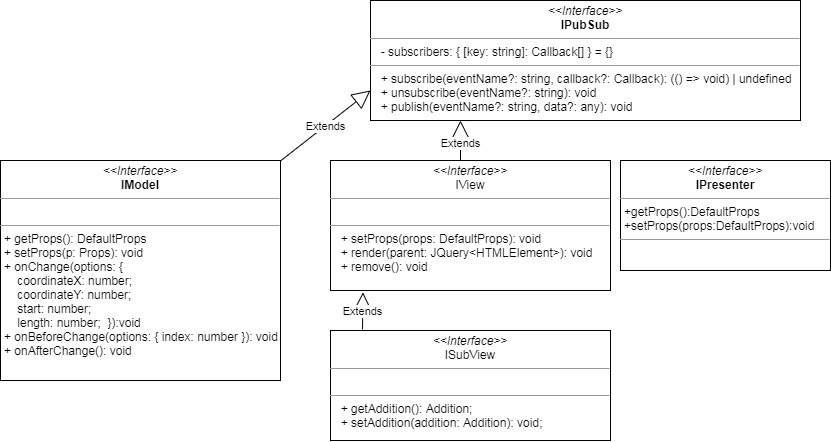
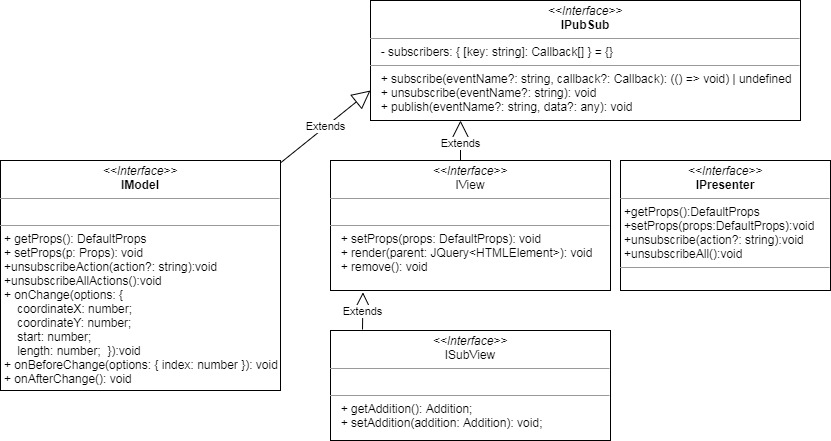
fix(): replace methods unsubscribeAll, unsubscribe, update uml-diagrams, update tests for model  for model #1

diff --git a/src/__test__/slider/model.test.ts b/src/__test__/slider/model.test.ts
@@ -217,7 +217,7 @@ describe('slider', () => {
       expect(onAfterChange.mock.calls[0][0]).toStrictEqual([88]);
       expect(onAfterChange.mock.calls.length).toBe(1);
     });
-    test('unsubscribe onChange, onBeforeChange, onAfterChange', () => {
+    test('unsubscribeAction onChange, onBeforeChange, onAfterChange', () => {
       const onChange = jest.fn((_: number[]): void => {});
       const onBeforeChange = jest.fn((_: number[]): void => {});
       const onAfterChange = jest.fn((_: number[]): void => {});
@@ -257,9 +257,9 @@ describe('slider', () => {
       expect(onAfterChange.mock.calls.length).toBe(1);
       expect(onAfterChange.mock.calls[0][0]).toStrictEqual([88]);
       expect(onAfterChange.mock.calls.length).toBe(1);
-      model.unsubscribe('onChange');
-      model.unsubscribe('onBeforeChange');
-      model.unsubscribe('onAfterChange');
+      model.unsubscribeAction('onChange');
+      model.unsubscribeAction('onBeforeChange');
+      model.unsubscribeAction('onAfterChange');
       model.onChange({
         coordinateX: 84,
         coordinateY: 80,
@@ -291,7 +291,7 @@ describe('slider', () => {
       expect(onAfterChange.mock.calls[0][0]).toStrictEqual([88]);
       expect(onAfterChange.mock.calls.length).toBe(1);
     });
-    test('unsubscribeAll onChange, onBeforeChange, onAfterChange', () => {
+    test('unsubscribeAllActions onChange, onBeforeChange, onAfterChange', () => {
       const onChange = jest.fn((_: number[]): void => {});
       const onBeforeChange = jest.fn((_: number[]): void => {});
       const onAfterChange = jest.fn((_: number[]): void => {});
@@ -331,7 +331,7 @@ describe('slider', () => {
       expect(onAfterChange.mock.calls.length).toBe(1);
       expect(onAfterChange.mock.calls[0][0]).toStrictEqual([88]);
       expect(onAfterChange.mock.calls.length).toBe(1);
-      model.unsubscribeAll();
+      model.unsubscribeAllActions();
       model.onChange({
         coordinateX: 84,
         coordinateY: 80,

diff --git a/src/Model/Model.ts b/src/Model/Model.ts
@@ -22,7 +22,7 @@ class Model extends PubSub implements IModel {
     this.props = props;
   }
 
-  public unsubscribeAll(): void {
+  public unsubscribeAllActions(): void {
     const actions: Record<string, null> = {};
     Model.ACTIONS.forEach((action) => {
       actions[action] = null;
@@ -30,7 +30,7 @@ class Model extends PubSub implements IModel {
     this.setProps({ ...this.getProps(), ...actions });
   }
 
-  public unsubscribe(action?: string): void {
+  public unsubscribeAction(action?: string): void {
     if (isString(action) && Model.ACTIONS.indexOf(action) !== -1) {
       this.setProps({ ...this.getProps(), [action]: null });
     }

diff --git a/src/types/index.ts b/src/types/index.ts
@@ -12,9 +12,9 @@ type Props = {
   mark?: Mark;
   dot?: Dot;
   step?: number;
-  onChange?: (value: number[]) => void;
-  onBeforeChange?: (value: number[]) => void;
-  onAfterChange?: (value: number[]) => void;
+  onChange?: (value: number[]) => void | null;
+  onBeforeChange?: (value: number[]) => void | null;
+  onAfterChange?: (value: number[]) => void | null;
   track?: Track;
   handle?: Handle;
   startPoint?: number;

diff --git a/src/Presenter/Presenter.ts b/src/Presenter/Presenter.ts
@@ -21,11 +21,11 @@ class Presenter implements IPresenter {
   }
 
   public unsubscribeAll(): void {
-    this.model.unsubscribeAll();
+    this.model.unsubscribeAllActions();
   }
 
   public unsubscribe(action?: string): void {
-    this.model.unsubscribe(action);
+    this.model.unsubscribeAction(action);
   }
 
   public getProps(): DefaultProps {

diff --git a/src/interfaces/index.ts b/src/interfaces/index.ts
@@ -19,8 +19,8 @@ interface IModel extends IPubSub {
     action?: string;
   }): void;
   setIndex(options: { index?: number }): void;
-  unsubscribeAll: () => void;
-  unsubscribe: (action?: string) => void;
+  unsubscribeAllActions: () => void;
+  unsubscribeAction: (action?: string) => void;
 }
 
 interface IView extends IPubSub {
